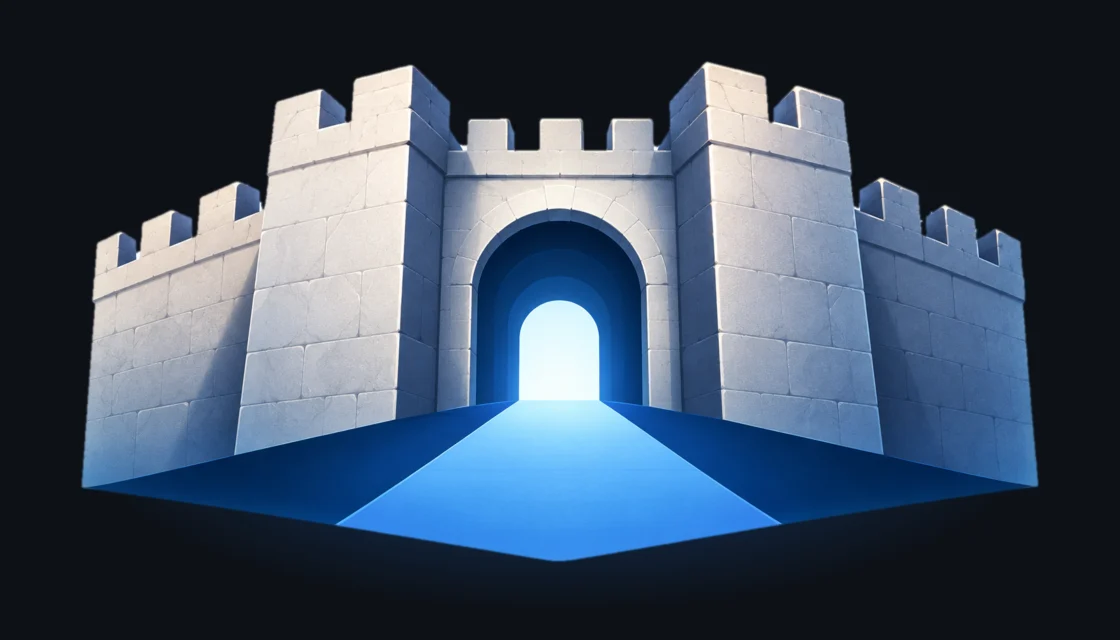
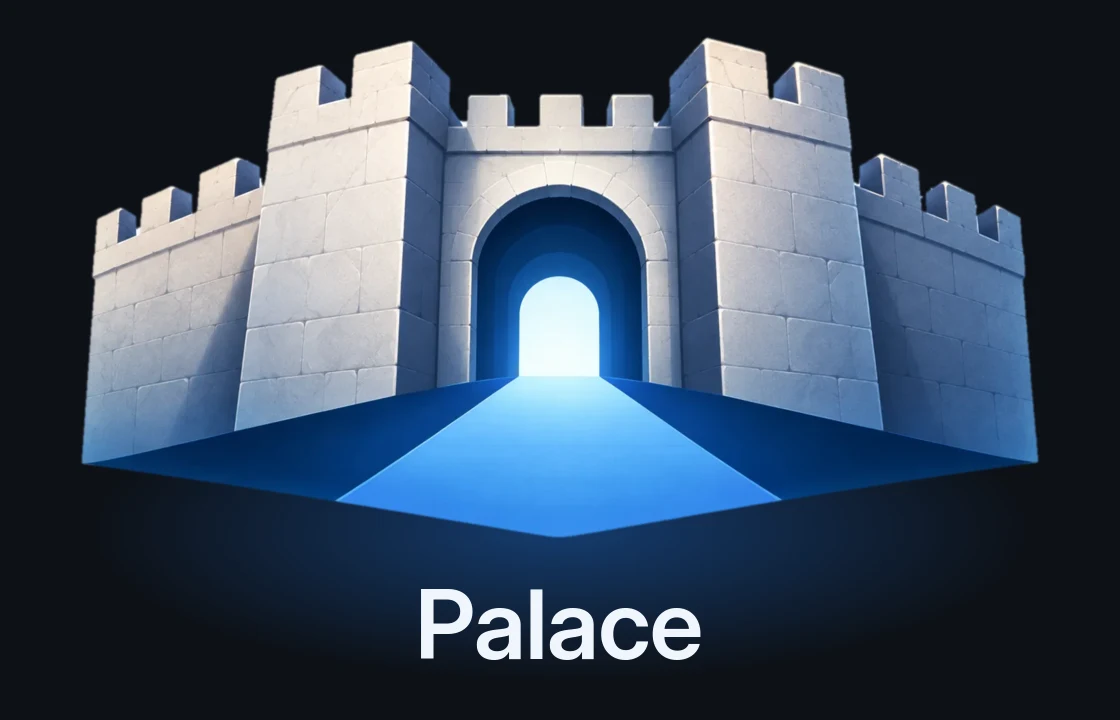
Put Palace's name in the README's castle image
The heading sat far below the castle, over a rule GitHub draws under it. The
name is now part of the image, just under the road, which is labeled Palace for
screen readers.

diff --git a/README.md b/README.md
@@ -1,11 +1,9 @@
 <p align="center">
   <picture>
     <source media="(prefers-color-scheme: dark)" srcset=".github/readme/castle-dark.webp">
-    <img src=".github/readme/castle-light.webp" width="560" height="320" alt="">
+    <img src=".github/readme/castle-light.webp" width="560" height="360" alt="Palace">
   </picture>
 </p>
-
-<h1 align="center">Palace</h1>
 
 <p align="center">
   A fast, beautifully simple Git client for Linux and macOS.<br>
